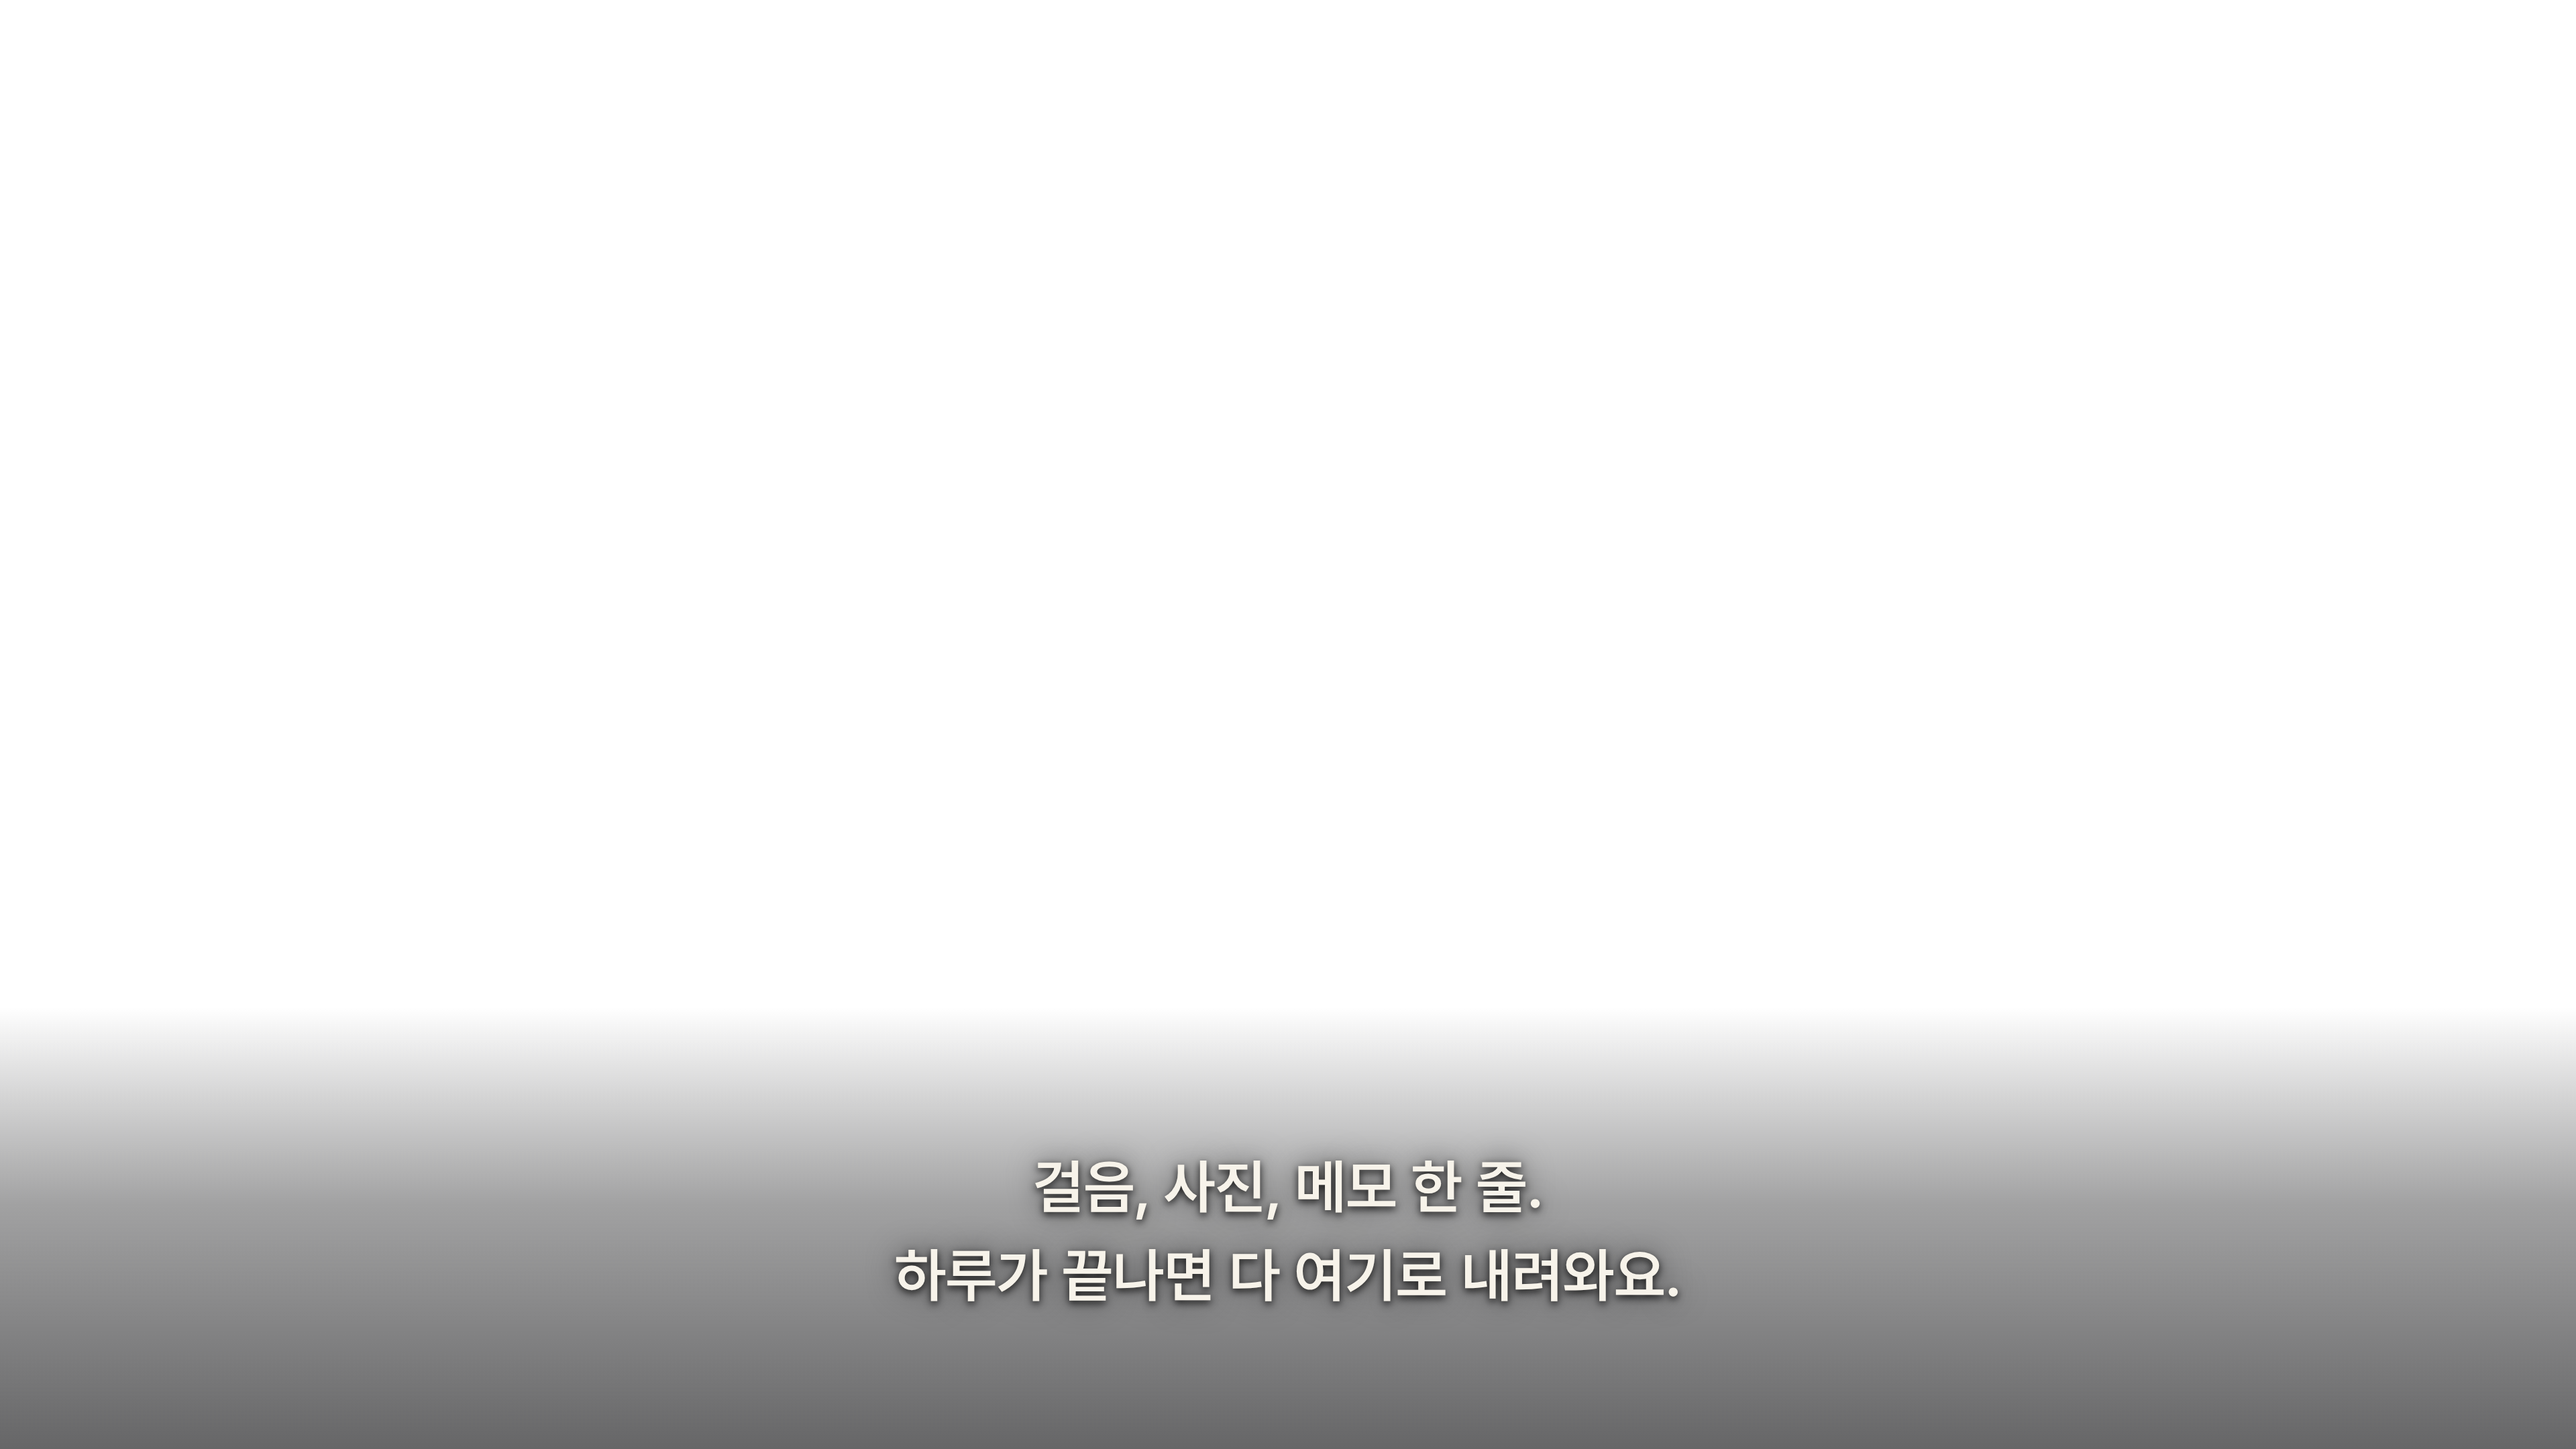
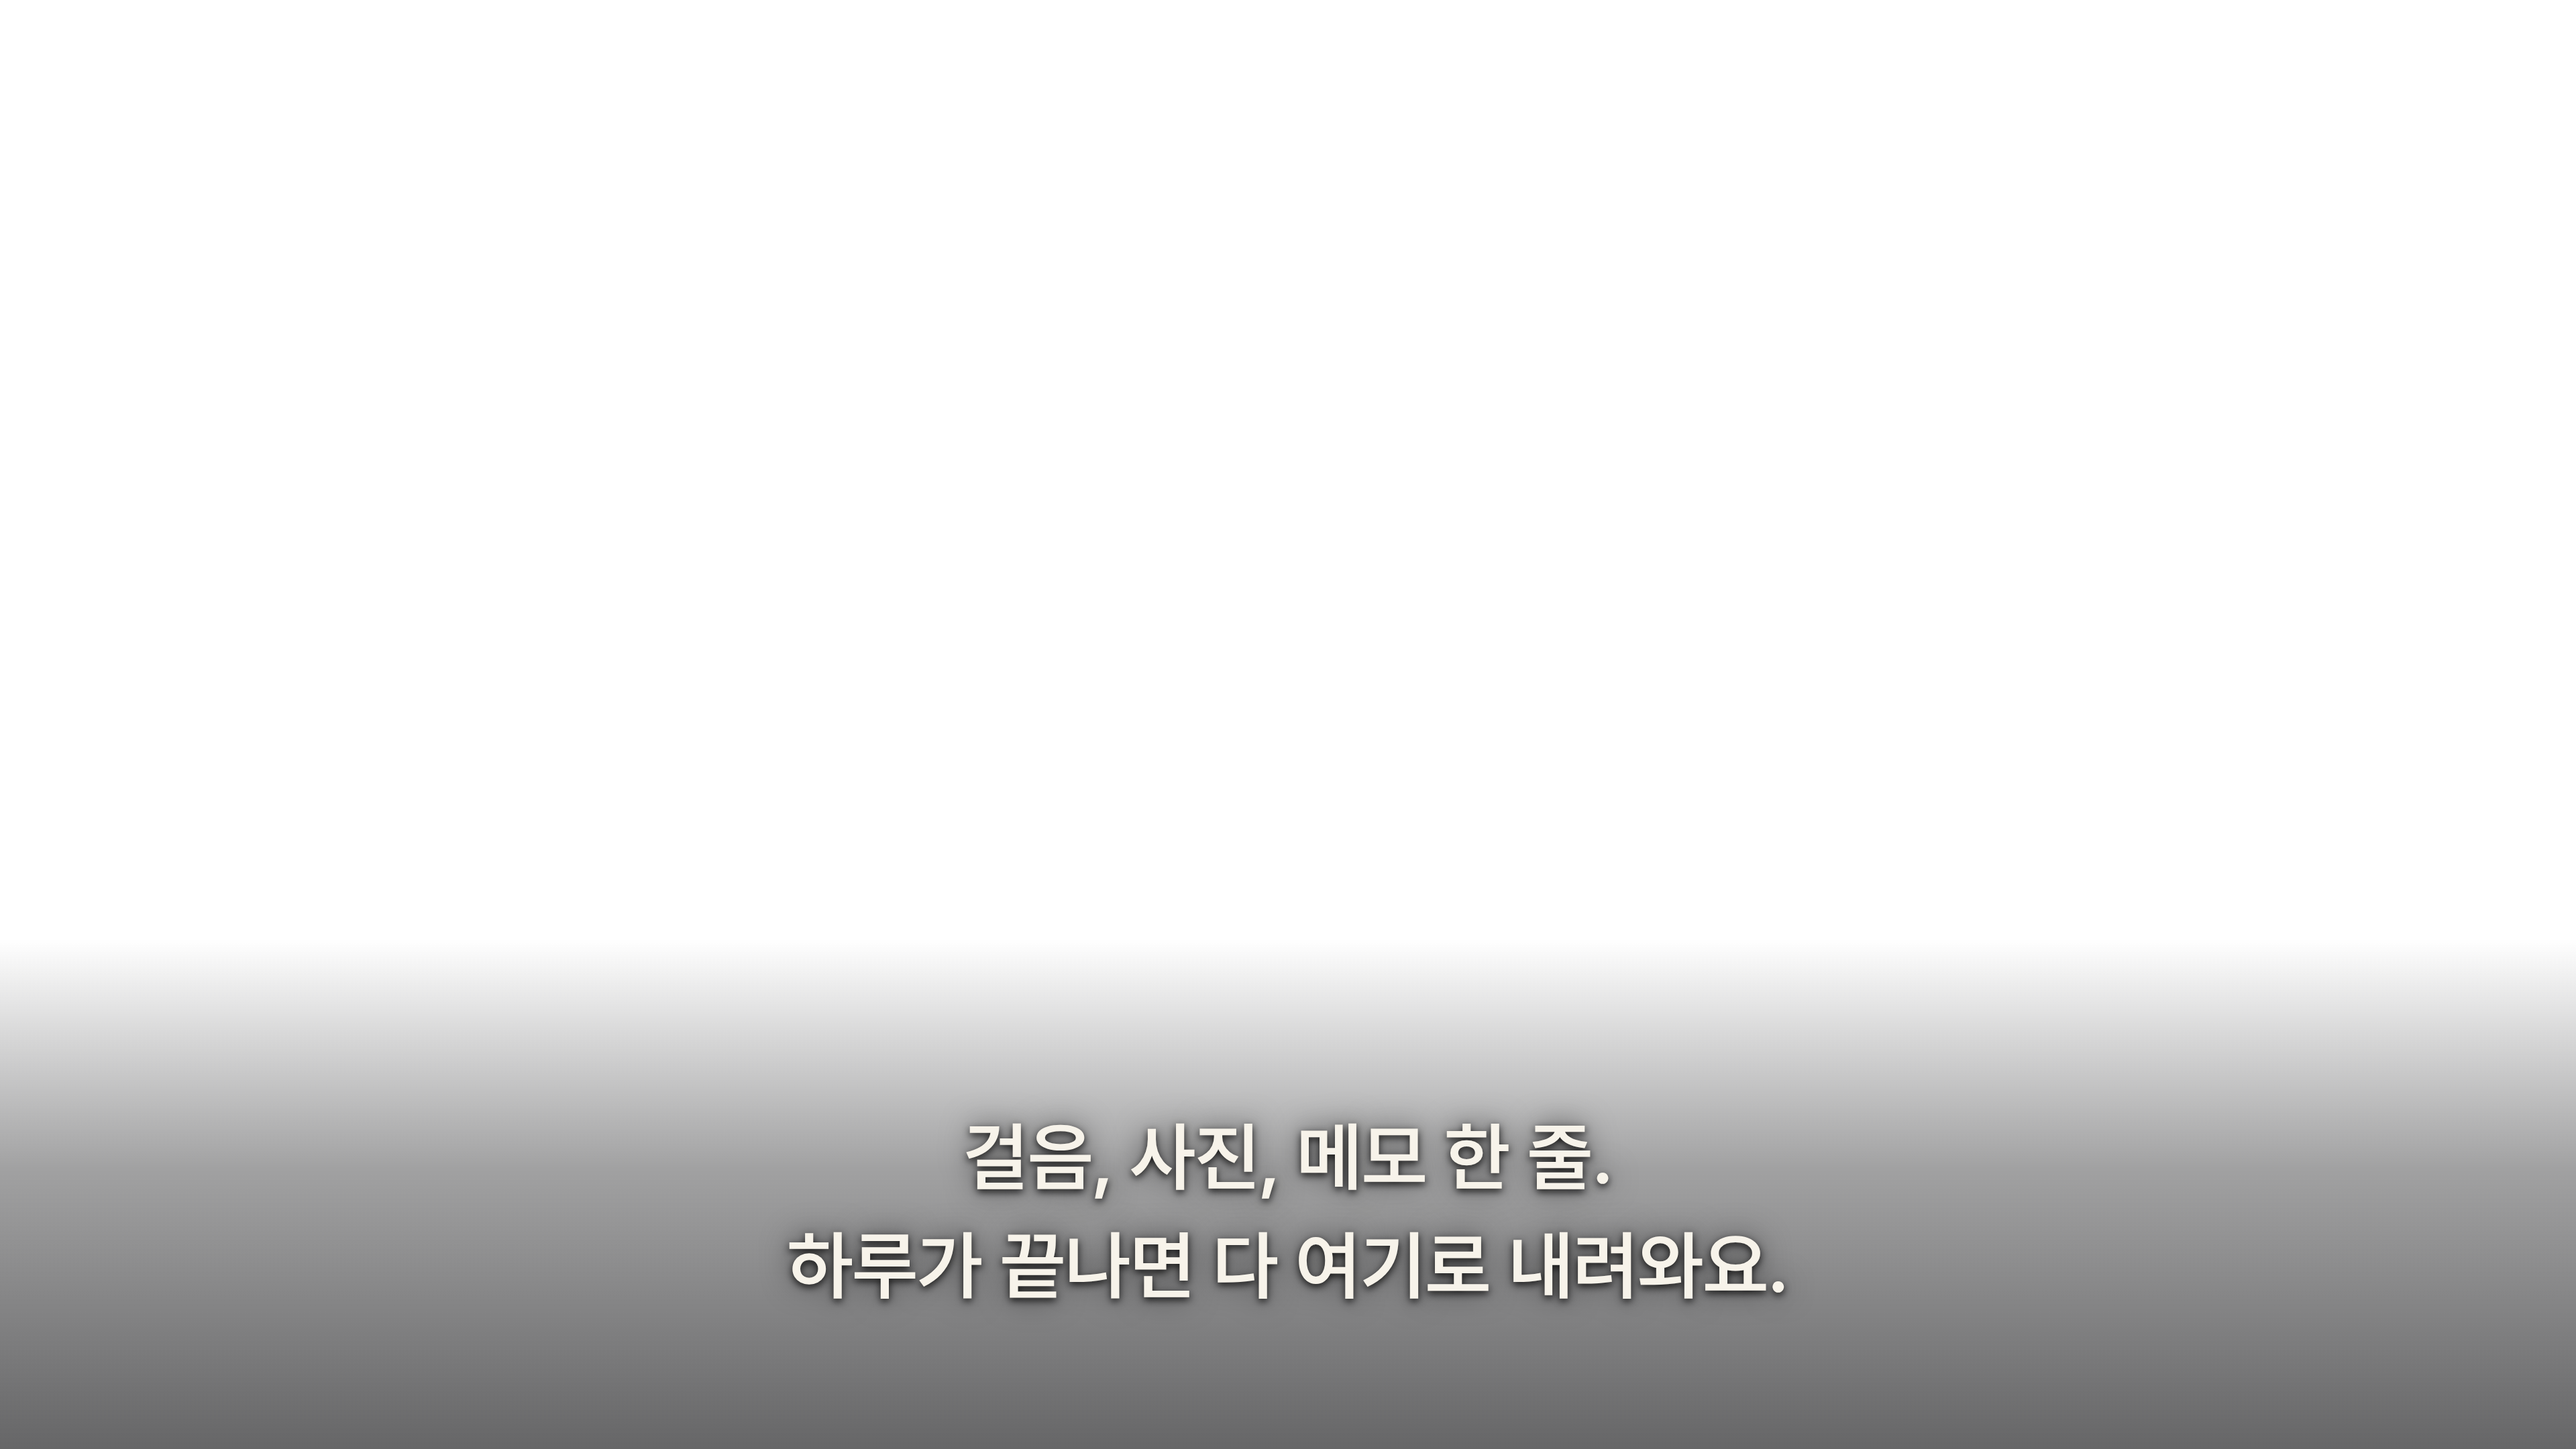
showcase v0.4.1: two-pass loudness, ore crack at split onset, larger subtitles
Claude-Session: https://claude.ai/code/session_01H6XxrjKT2zziYGGeC5Esr8

Changed region(s): [[0.0, 0.6824, 1.0, 0.8995]]

diff --git a/showcase/v0.4_kit/build4.py b/showcase/v0.4_kit/build4.py
@@ -87,13 +87,14 @@ def k10_crack(path, skip, d):
     except Exception:
         return 2.4
     n = len(raw) // (64 * 36)
-    best, bt = -1, 2.4
-    for k in range(1, n):
-        a, b = raw[(k - 1) * 2304:k * 2304], raw[k * 2304:(k + 1) * 2304]
-        s = sum(abs(x - y) for x, y in zip(a, b))
-        if s > best:
-            best, bt = s, k / 30
-    print(f'  K10 깨짐 시각 {bt:.2f}s')
+    diffs = [sum(abs(x - y) for x, y in zip(raw[(k - 1) * 2304:k * 2304], raw[k * 2304:(k + 1) * 2304]))
+             for k in range(1, n)]
+    if not diffs:
+        return 2.4
+    top = max(diffs)
+    # 가장 크게 바뀌는 순간이 아니라, 갈라지기 시작하는 순간(최대 변화의 35%를 처음 넘는 프레임)
+    bt = next(k + 1 for k, v in enumerate(diffs) if v >= 0.35 * top) / 30
+    print(f'  K10 깨짐 시각 {bt:.2f}s (최대 변화 {(diffs.index(top) + 1) / 30:.2f}s)')
     return bt
 
 
@@ -350,7 +351,14 @@ def main():
     segs = ['01_title', '02_spec', '03_story', '04_bridge', '05_demo', '06_islands', '07_end', '08_credit', '09_black']
     open('seg/list.txt', 'w').write('\n'.join(f"file '{s}.mp4'" for s in segs))
     run(['-f', 'concat', '-safe', '0', '-i', 'seg/list.txt', '-c', 'copy', 'seg/joined.mp4'])
-    run(['-i', 'seg/joined.mp4', '-c:v', 'copy', '-af', 'loudnorm=I=-16:TP=-1.5:LRA=11'] + AENC
+    # 최종 음량: 2패스 loudnorm (1패스는 -14.8 LUFS로 목표보다 컸음)
+    r = subprocess.run(['ffmpeg', '-hide_banner', '-i', 'seg/joined.mp4', '-af',
+                        'loudnorm=I=-16:TP=-1.5:LRA=11:print_format=json', '-f', 'null', '-'],
+                       capture_output=True, text=True)
+    m = json.loads(r.stderr[r.stderr.rindex('{'):r.stderr.rindex('}') + 1])
+    ln = (f"loudnorm=I=-16:TP=-1.5:LRA=11:measured_I={m['input_i']}:measured_TP={m['input_tp']}:"
+          f"measured_LRA={m['input_lra']}:measured_thresh={m['input_thresh']}:offset={m['target_offset']}:linear=true")
+    run(['-i', 'seg/joined.mp4', '-c:v', 'copy', '-af', ln + ',aresample=48000'] + AENC
         + ['-movflags', '+faststart', o.out])
     for s in segs:
         print(f'{s:12s} {dur(f"seg/{s}.mp4"):6.2f}')
